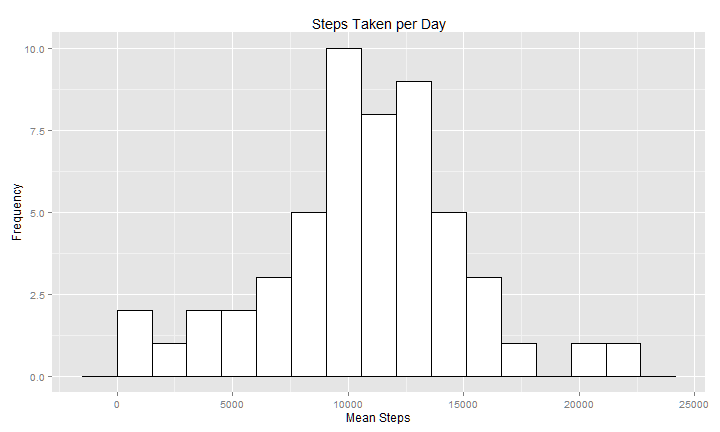
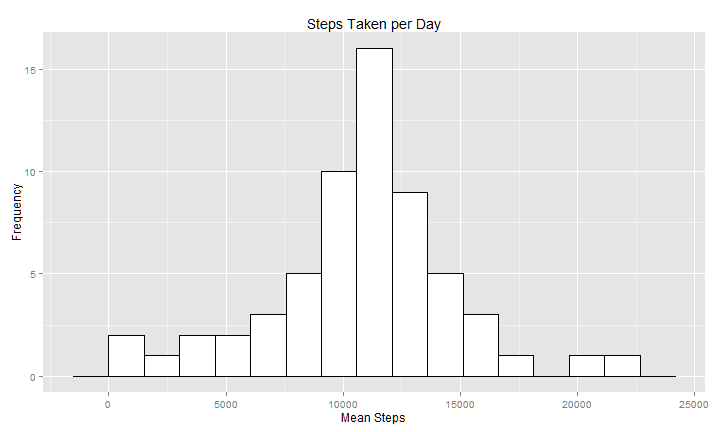
Added data immutation to correct for missing values

diff --git a/PA1_template.html b/PA1_template.html
@@ -275,46 +275,53 @@ medianSteps &lt;- round( median( dailySums$steps, na.rm = TRUE ), 1 )
 
 <p><em>A: The strategy was to calculate the aggregate steps after removing NA values.</em></p>
 
-<p>Create a new dataset that is equal to the original dataset but with the missing data filled in.</p>
+<p>Create a new dataset that that replaces missing values with the 5 minute average across all days.</p>
 
-<pre><code class="r">dataComplete &lt;- data[complete.cases(data),]
+<pre><code class="r">#dataImmuted &lt;- data[complete.cases(data),]
+
+dataImmuted &lt;- data
+for (j in 1:nrow(dataImmuted)) {
+  if (is.na(dataImmuted$steps[j])) { 
+    dataImmuted$steps[j] &lt;- dailyMeans$steps[dailyMeans$interval == dataImmuted$interval[j]]
+  }
+}
 </code></pre>
 
 <p>Make a histogram of the total number of steps taken each day and Calculate and report the mean and median total number of steps taken per day.</p>
 
-<pre><code class="r">dailySumsComplete &lt;- aggregate( steps~date, data=dataComplete, FUN=sum, na.rm=FALSE)
-dailyMeansComplete &lt;- aggregate( steps~interval, data=dataComplete, FUN=mean, na.rm=FALSE)
+<pre><code class="r">dailySumsImmuted &lt;- aggregate( steps~date, data=dataImmuted, FUN=sum, na.rm=FALSE)
+dailyMeansImmuted &lt;- aggregate( steps~interval, data=dataImmuted, FUN=mean, na.rm=FALSE)
 
-meanStepsComplete &lt;- round( mean( dailySumsComplete$steps, na.rm = FALSE ), 1 )
-medianStepsComplete &lt;- round( median( dailySumsComplete$steps, na.rm = FALSE ), 1 )
+meanStepsImmuted &lt;- round( mean( dailySumsImmuted$steps, na.rm = FALSE ), 1 )
+medianStepsImmuted &lt;- round( median( dailySumsImmuted$steps, na.rm = FALSE ), 1 )
 </code></pre>
 
-<pre><code class="r">ggplot(data=dailySumsComplete, aes(x=steps)) + geom_histogram(binwidth = diff(range(dailySumsComplete$steps))/14, fill=&quot;#FFFFFF&quot;, colour=&quot;black&quot;) + xlab(&quot;Mean Steps&quot;) + ylab(&quot;Frequency&quot;) + ggtitle(&quot;Steps Taken per Day&quot;)
+<pre><code class="r">ggplot(data=dailySumsImmuted, aes(x=steps)) + geom_histogram(binwidth = diff(range(dailySumsImmuted$steps))/14, fill=&quot;#FFFFFF&quot;, colour=&quot;black&quot;) + xlab(&quot;Mean Steps&quot;) + ylab(&quot;Frequency&quot;) + ggtitle(&quot;Steps Taken per Day&quot;)
 </code></pre>
 
[2 lines of base64/hex data omitted]
 
-<p><em>A: Mean daily steps: 1.0766 &times; 10<sup>4</sup>, Median daily steps: 1.0765 &times; 10<sup>4</sup></em></p>
+<p><em>A: Mean daily steps: 1.0766 &times; 10<sup>4</sup>, Median daily steps: 1.0766 &times; 10<sup>4</sup></em></p>
 
 <p>Do these values differ from the estimates from the first part of the assignment? </p>
 
-<p><em>A: No, They are the same because the NA values had previously been removed.</em></p>
+<p><em>A: Yes, the immuted calculations vasy slightly.</em></p>
 
 <p>What is the impact of imputing missing data on the estimates of the total daily number of steps?</p>
 
-<p><em>A: The resulting averages would be too low and the curve would be skewed to the left.</em></p>
+<p><em>A: Without immuting the data the median would reflect the missing values by being slightly lower. There is a chance that the averave would also be higher, although it is not the case in this data set.</em></p>
 
 <p><strong>Are there differences in activity patterns between weekdays and weekends?</strong></p>
 
 <p>Create a new factor variable in the dataset with two levels, for weekday and weekend and bind it to the data.</p>
 
-<pre><code class="r">partOfWeek &lt;- weekdays(as.Date(dataComplete$date)) == &quot;Sunday&quot; | weekdays(as.Date(dataComplete$date)) == &quot;Saturday&quot;
+<pre><code class="r">partOfWeek &lt;- weekdays(as.Date(dataImmuted$date)) == &quot;Sunday&quot; | weekdays(as.Date(dataImmuted$date)) == &quot;Saturday&quot;
 partOfWeek &lt;- ifelse(partOfWeek==TRUE, &quot;Weekend&quot;, &quot;Weekday&quot;)
 partOfWeek &lt;- as.factor(partOfWeek)
 
-dataComplete &lt;- cbind(dataComplete, partOfWeek);
+dataImmuted &lt;- cbind(dataImmuted, partOfWeek);
 
-stepInterval &lt;- sqldf(&quot;select interval, partOfWeek, sum(steps) as steps, count(steps) as count from dataComplete group by interval, partOfWeek&quot;);
+stepInterval &lt;- sqldf(&quot;select interval, partOfWeek, sum(steps) as steps, count(steps) as count from dataImmuted group by interval, partOfWeek&quot;);
 </code></pre>
 
 <pre><code>## Loading required package: tcltk
@@ -329,7 +336,7 @@ stepInterval &lt;- cbind( stepInterval, average );
 <pre><code class="r">ggplot(stepInterval, aes(interval, average)) + geom_line() + xlab(&quot;Interval&quot;) + ylab(&quot;Mean steps&quot;) + ggtitle(&quot;Daily Activity Grouped by Days Occuring on Weekdays and Weekends&quot;) + facet_grid(facets=partOfWeek ~ .)
 </code></pre>
 
[2 lines of base64/hex data omitted]
 
 </body>
 

diff --git a/PA1_template.md b/PA1_template.md
@@ -116,40 +116,47 @@ Devise a strategy for filling in all of the missing values in the dataset.
 
 *A: The strategy was to calculate the aggregate steps after removing NA values.*
 
-Create a new dataset that is equal to the original dataset but with the missing data filled in.
+Create a new dataset that that replaces missing values with the 5 minute average across all days.
 
 
 ```r
-dataComplete <- data[complete.cases(data),]
+#dataImmuted <- data[complete.cases(data),]
+
+dataImmuted <- data
+for (j in 1:nrow(dataImmuted)) {
+  if (is.na(dataImmuted$steps[j])) { 
+    dataImmuted$steps[j] <- dailyMeans$steps[dailyMeans$interval == dataImmuted$interval[j]]
+  }
+}
 ```
 
 Make a histogram of the total number of steps taken each day and Calculate and report the mean and median total number of steps taken per day.
 
 
 ```r
-dailySumsComplete <- aggregate( steps~date, data=dataComplete, FUN=sum, na.rm=FALSE)
-dailyMeansComplete <- aggregate( steps~interval, data=dataComplete, FUN=mean, na.rm=FALSE)
+dailySumsImmuted <- aggregate( steps~date, data=dataImmuted, FUN=sum, na.rm=FALSE)
+dailyMeansImmuted <- aggregate( steps~interval, data=dataImmuted, FUN=mean, na.rm=FALSE)
 
-meanStepsComplete <- round( mean( dailySumsComplete$steps, na.rm = FALSE ), 1 )
-medianStepsComplete <- round( median( dailySumsComplete$steps, na.rm = FALSE ), 1 )
+meanStepsImmuted <- round( mean( dailySumsImmuted$steps, na.rm = FALSE ), 1 )
+medianStepsImmuted <- round( median( dailySumsImmuted$steps, na.rm = FALSE ), 1 )
 ```
 
 
 ```r
-ggplot(data=dailySumsComplete, aes(x=steps)) + geom_histogram(binwidth = diff(range(dailySumsComplete$steps))/14, fill="#FFFFFF", colour="black") + xlab("Mean Steps") + ylab("Frequency") + ggtitle("Steps Taken per Day")
+ggplot(data=dailySumsImmuted, aes(x=steps)) + geom_histogram(binwidth = diff(range(dailySumsImmuted$steps))/14, fill="#FFFFFF", colour="black") + xlab("Mean Steps") + ylab("Frequency") + ggtitle("Steps Taken per Day")
 ```
 
 ![plot of chunk unnamed-chunk-10](figure/unnamed-chunk-10.png) 
 
-*A: Mean daily steps: 1.0766 &times; 10<sup>4</sup>, Median daily steps: 1.0765 &times; 10<sup>4</sup>*
+*A: Mean daily steps: 1.0766 &times; 10<sup>4</sup>, Median daily steps: 1.0766 &times; 10<sup>4</sup>*
 
 Do these values differ from the estimates from the first part of the assignment? 
 
-*A: No, They are the same because the NA values had previously been removed.*
+*A: Yes, the immuted calculations vasy slightly.*
 
 What is the impact of imputing missing data on the estimates of the total daily number of steps?
 
-*A: The resulting averages would be too low and the curve would be skewed to the left.*
+*A: Without immuting the data the median would reflect the missing values by being slightly lower. There is a chance that the averave would also be higher, although it is not the case in this data set.*
 
 
 **Are there differences in activity patterns between weekdays and weekends?**
@@ -158,13 +165,13 @@ Create a new factor variable in the dataset with two levels, for weekday and wee
 
 
 ```r
-partOfWeek <- weekdays(as.Date(dataComplete$date)) == "Sunday" | weekdays(as.Date(dataComplete$date)) == "Saturday"
+partOfWeek <- weekdays(as.Date(dataImmuted$date)) == "Sunday" | weekdays(as.Date(dataImmuted$date)) == "Saturday"
 partOfWeek <- ifelse(partOfWeek==TRUE, "Weekend", "Weekday")
 partOfWeek <- as.factor(partOfWeek)
 
-dataComplete <- cbind(dataComplete, partOfWeek);
+dataImmuted <- cbind(dataImmuted, partOfWeek);
 
-stepInterval <- sqldf("select interval, partOfWeek, sum(steps) as steps, count(steps) as count from dataComplete group by interval, partOfWeek");
+stepInterval <- sqldf("select interval, partOfWeek, sum(steps) as steps, count(steps) as count from dataImmuted group by interval, partOfWeek");
 ```
 
 ```
